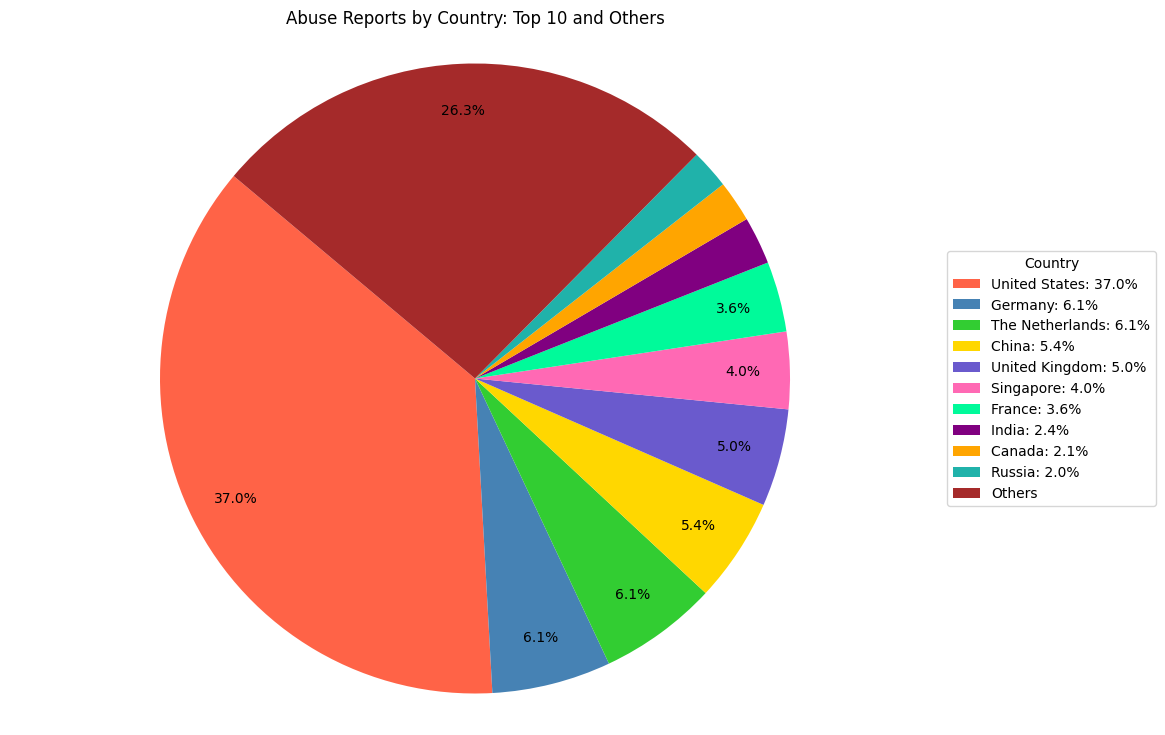
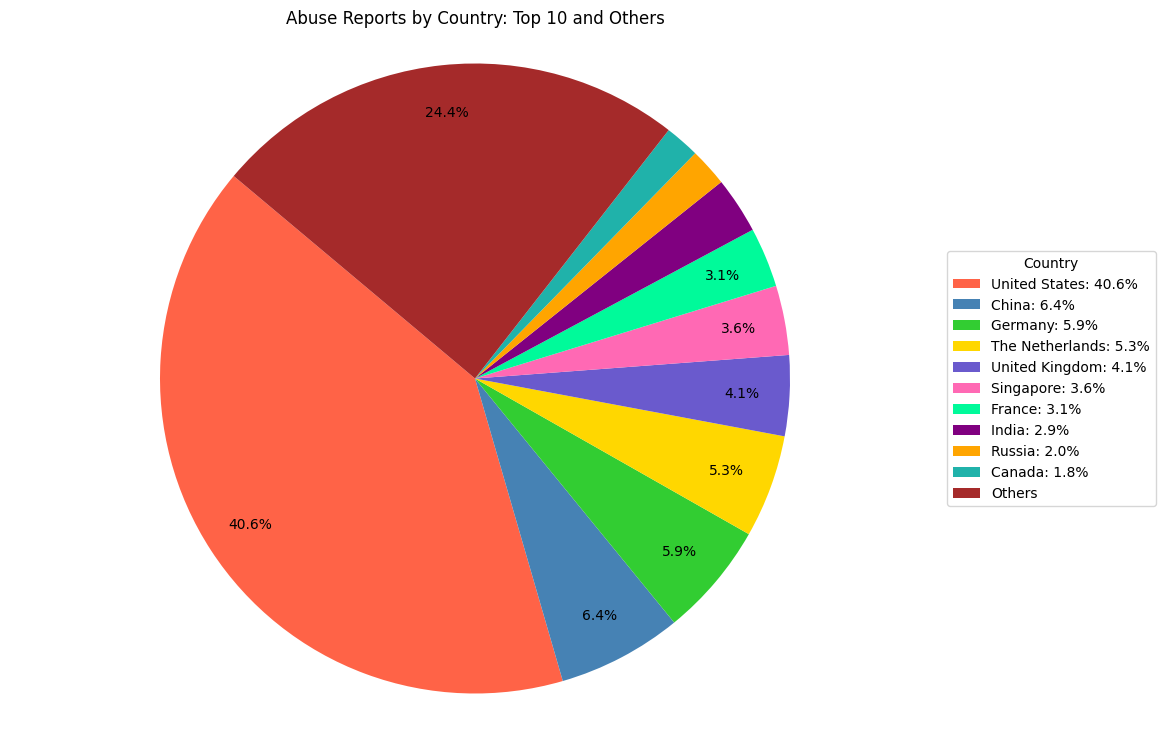
Added additional malicious IPs

diff --git a/csv_to_json.py b/csv_to_json.py
@@ -1,0 +1,42 @@
+#!/usr/bin/env python3
+import csv
+import json
+
+
+def process_csv_to_json(input_file, output_file):
+    # Read the CSV file and filter entries
+    filtered_entries = []
+    with open(input_file, 'r') as csvfile:
+        reader = csv.DictReader(csvfile)
+        for row in reader:
+            if 'leakix.org' in row['Hostname']:
+                filtered_entries.append({
+                    'country': row['Country'],
+                    'countryCode': row['Country Code'],
+                    'region': row['Region'],
+                    'regionName': row['Region Name'],
+                    'city': row['City'],
+                    'zip': row['ZIP'],
+                    'lat': float(row['Latitude']),
+                    'lon': float(row['Longitude']),
+                    'timezone': row['Timezone'],
+                    'isp': row['ISP'],
+                    'org': row['Organization'],
+                    'as': row['AS'],
+                    'ip': row['IP'],
+                    'abuse_confidence_score': int(row['Abuse Confidence Score']),
+                    'detail': row['Hostname']
+                })
+
+    # Write the filtered entries to a JSON file
+    with open(output_file, 'w') as jsonfile:
+        json.dump(filtered_entries, jsonfile, indent=2)
+
+    return len(filtered_entries)
+
+
+if __name__ == '__main__':
+    input_file = 'ipv4.csv'
+    output_file = 'leakix.json'
+    entries_processed = process_csv_to_json(input_file, output_file)
+    print(f'Processed {entries_processed} entries. Results saved to {output_file}')
